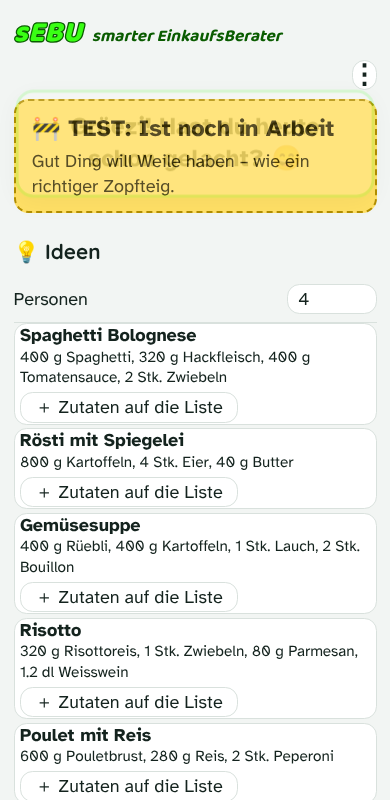
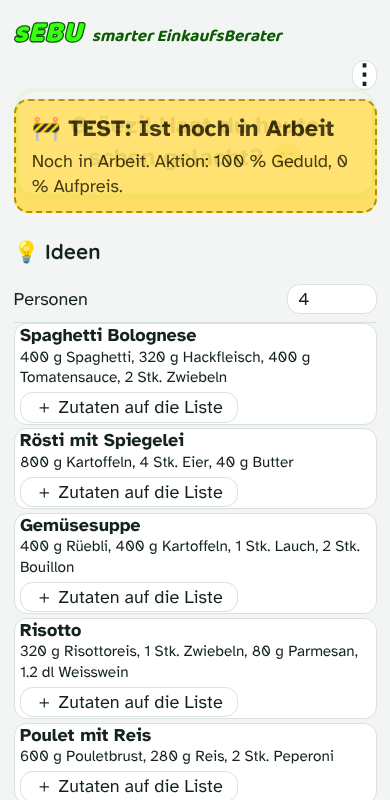
Dunkles Design: hellere grüne Rahmen
Claude-Session: https://claude.ai/code/session_01D8YzSZq49mBYGwQ71jG7sa

Changed region(s): [[0.0615, 0.1875, 0.8923, 0.25]]

diff --git a/index.html b/index.html
@@ -16,8 +16,8 @@
 <link rel="stylesheet" href="https://fonts.googleapis.com/css2?family=Atkinson+Hyperlegible:wght@400;700&family=Quicksand:wght@600;700&family=Baloo+2:wght@700;800&display=swap">
 <style>
 :root{--bg:#f2f5f3;--card:#fff;--ink:#14231e;--mute:#5d6e67;--line:#d9e1dd;--red:#c8453b;--yel:#c99a12;--grn:#2e9e57;--acc:#39FF14;--accd:#0a5c00;--onacc:#fff;--fs:18px;--rh:calc(var(--fs)*1.67);--lg:#bff0cc;--dg:#0a5c00}
-@media (prefers-color-scheme:dark){:root:not([data-theme="light"]){--bg:#0f1815;--card:#1a2622;--ink:#e8f0ec;--mute:#93a59d;--line:#3a4c46;--red:#e5766d;--yel:#e3b93f;--grn:#5dc783}}
-:root[data-theme="dark"]{--bg:#0f1815;--card:#1a2622;--ink:#e8f0ec;--mute:#93a59d;--line:#3a4c46;--red:#e5766d;--yel:#e3b93f;--grn:#5dc783}
+@media (prefers-color-scheme:dark){:root:not([data-theme="light"]){--bg:#0f1815;--card:#1a2622;--ink:#e8f0ec;--mute:#93a59d;--line:#55866a;--red:#e5766d;--yel:#e3b93f;--grn:#5dc783}}
+:root[data-theme="dark"]{--bg:#0f1815;--card:#1a2622;--ink:#e8f0ec;--mute:#93a59d;--line:#55866a;--red:#e5766d;--yel:#e3b93f;--grn:#5dc783}
 *,*::before,*::after{box-sizing:border-box}
 html,body{margin:0;min-height:100%;background:var(--bg);color:var(--ink);font:400 var(--fs)/1.35 "Atkinson Hyperlegible",system-ui,sans-serif;-webkit-text-size-adjust:100%}
 body{padding-top:env(safe-area-inset-top,0px)}
@@ -95,7 +95,7 @@ html.addwrap .add{display:grid;grid-template-columns:repeat(var(--n),auto) 1fr a
 .hrow{display:flex;justify-content:space-between;align-items:center;gap:.5em;margin:-.2em 0 .5em;flex-wrap:nowrap}.hrow>span{white-space:nowrap;flex:1 1 auto}.topbar.up{flex:0 0 auto;margin:0!important;overflow:visible;align-items:center}
 .btn.sq.dealxb{width:calc(var(--rh)*1.2);height:calc(var(--rh)*1.2);font-size:1.35em;font-weight:700;flex:0 0 auto;margin-left:.4em}
 .btn.sq#hamb{overflow:hidden;min-width:0;width:calc(var(--rh)*.8);font-size:1.5em;font-weight:900;line-height:1;padding:0}
-@media (prefers-color-scheme:dark){:root:not([data-theme=light]) .ic{border-color:color-mix(in srgb,var(--acc) 62%,var(--bg))}}:root[data-theme=dark] .ic{border-color:color-mix(in srgb,var(--acc) 62%,var(--bg))}
+@media (prefers-color-scheme:dark){:root:not([data-theme=light]) .ic{border-color:color-mix(in srgb,var(--acc) 80%,var(--bg))}}:root[data-theme=dark] .ic{border-color:color-mix(in srgb,var(--acc) 80%,var(--bg))}
 .ic.ph{padding:0;overflow:hidden}.ic.ph img{width:100%;height:100%;object-fit:cover;display:block}
 .wheels.hz{display:block;margin:.3em 0}.wheels.hz .wl{font-size:.85em;color:var(--mute);margin:.3em 0 .1em}
 .wheels.hz .wrow{position:relative;--ww:calc(var(--rh)*1.9)}.wheels.hz .wrow.wu{--ww:calc(var(--rh)*2.8)}

diff --git a/docs/ENTSCHEIDUNGEN.md b/docs/ENTSCHEIDUNGEN.md
@@ -806,3 +806,4 @@ Stand heute: 1 gebaut; 2 teilweise (Aktionen, aber ohne echte Datenquelle); 3 te
 - 25.11.: Begrüssung neu 4 Sekunden statt 3.
 - 25.11.: Letzte Produkte: Knopf «Zurückholen» ersetzt durch runden ↩-Knopf (Erklärung beim Gedrückthalten).
 - 26.11.: 🛒 und 📍 in der Kopfzeile schmal (quadratisch wie 🔄, ausser mit «Knöpfe mit Text»), Listen-Knopf etwas kompakter – so passen die Knöpfe wieder auf die Zeile von ⋮.
+- 26.11.: Dunkles Design: Rahmen von Knöpfen und Produkten heller grün (--line #55866a statt #3a4c46), Symbol-Rahmen 80 % Neon statt 62 %.
